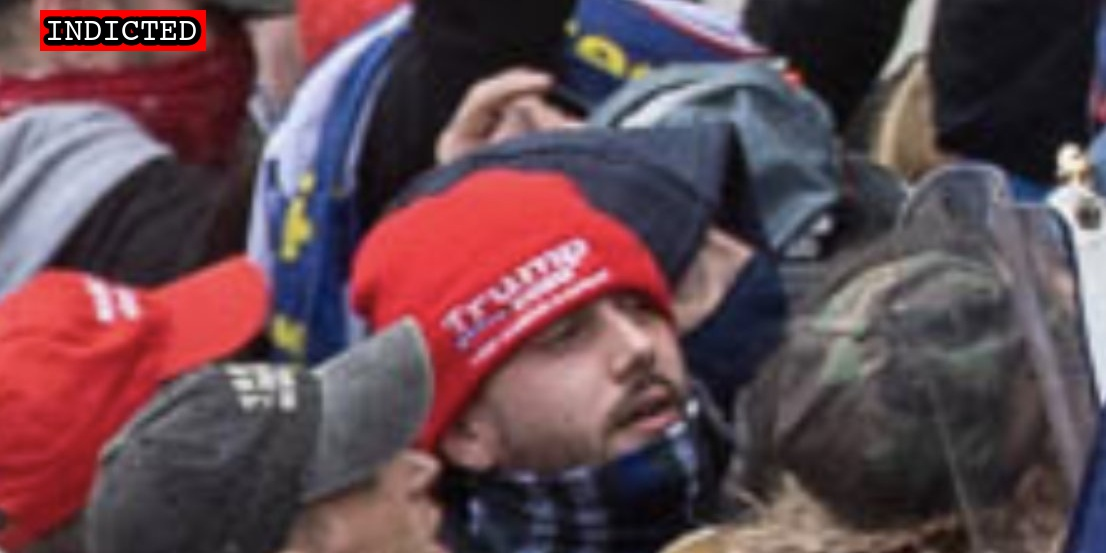
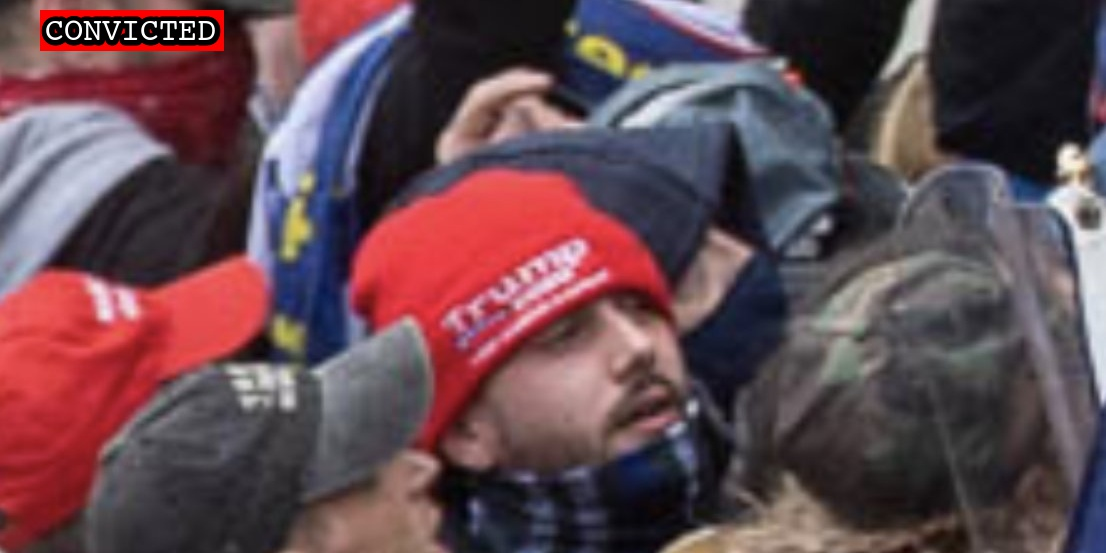
Latest schedule

Changed region(s): [[0.0307, 0.0, 0.2152, 0.0922]]

diff --git a/docs/_suspects/mason-courson.md b/docs/_suspects/mason-courson.md
@@ -4,11 +4,11 @@ lastName: Courson
 hashtag: TweedleDumb
 aka:
 residence: Florida
-status: Indicted
+status: Convicted
 date: 2021-11-17
 charged: 2021-11-17
 indicted: 2021-11-17
-convicted:
+convicted: 2022-11-30
 acquitted:
 sentenced:
 dismissed:
@@ -31,7 +31,7 @@ raid: mason-courson.jpg
 perpwalk:
 quote:
 title: Mason Courson charged on 11/17/2021
-description: Click for latest case details. Suspects innocent until proven guilty.
+description: Convicted on November 30, 2022. Click for latest case details.
 author: seditiontrack
 layout: suspect
 published: true
@@ -40,7 +40,12 @@ caseName: USA v. COURSON
 judge: Rudolph Contreras
 videos:
 charges:
+  - code: 18 USC § 111(a)(1) and (b),2
+    title: Assaulting, resisting, or impeding certain officers or employees (using a deadly or dangerous weapon) (Aiding and Abetting)
+    url: https://www.law.cornell.edu/uscode/text/18/111
+    felony: true
 sentence:
 ---
+
 - [News Report](https://abcnews.go.com/US/wireStory/florida-man-arrested-charged-jan-attack-us-capitol-81775546)
 - [Indictment](https://extremism.gwu.edu/sites/g/files/zaxdzs2191/f/Sabol%20et%20al%20Third%20Superseding%20Indictment.pdf)

diff --git a/docs/_suspects/brian-healion.md b/docs/_suspects/brian-healion.md
@@ -17,7 +17,7 @@ plea_hearing:
 trial_date:
 trial_type:
 sentencing:
-status_conference:
+status_conference: 2023-02-02
 age: 31
 occupation:
 affiliations: Proud Boys
@@ -42,6 +42,5 @@ videos:
 charges:
 sentence:
 ---
-
 - [News Report](https://www.msn.com/en-us/news/us/3-philly-area-proud-boys-charged-in-jan-6-capitol-riot/ar-AARQELh)
 - [Statement of Facts](https://www.justice.gov/usao-dc/case-multi-defendant/file/1481111/download)

diff --git a/docs/_suspects/freedom-vy.md b/docs/_suspects/freedom-vy.md
@@ -17,7 +17,7 @@ plea_hearing:
 trial_date:
 trial_type:
 sentencing:
-status_conference:
+status_conference: 2023-02-02
 age: 36
 occupation:
 affiliations: Proud Boys
@@ -42,6 +42,5 @@ videos:
 charges:
 sentence:
 ---
-
 - [News Report](https://www.msn.com/en-us/news/us/3-philly-area-proud-boys-charged-in-jan-6-capitol-riot/ar-AARQELh)
 - [Statement of Facts](https://www.justice.gov/usao-dc/case-multi-defendant/file/1480331/download)

diff --git a/docs/_suspects/isaiah-giddings.md b/docs/_suspects/isaiah-giddings.md
@@ -42,7 +42,6 @@ videos:
 charges:
 sentence:
 ---
-
 - [News Report](https://www.msn.com/en-us/news/us/3-philly-area-proud-boys-charged-in-jan-6-capitol-riot/ar-AARQELh)
 - [Statement of Facts](https://www.justice.gov/usao-dc/case-multi-defendant/file/1481086/download)
 - [Information](https://storage.courtlistener.com/recap/gov.uscourts.dcd.249696/gov.uscourts.dcd.249696.40.0.pdf)

diff --git a/docs/_suspects/zachary-alam.md b/docs/_suspects/zachary-alam.md
@@ -17,7 +17,7 @@ plea_hearing:
 trial_date:
 trial_type:
 sentencing:
-status_conference:
+status_conference: 2023-01-04
 age:
 occupation:
 affiliations:
